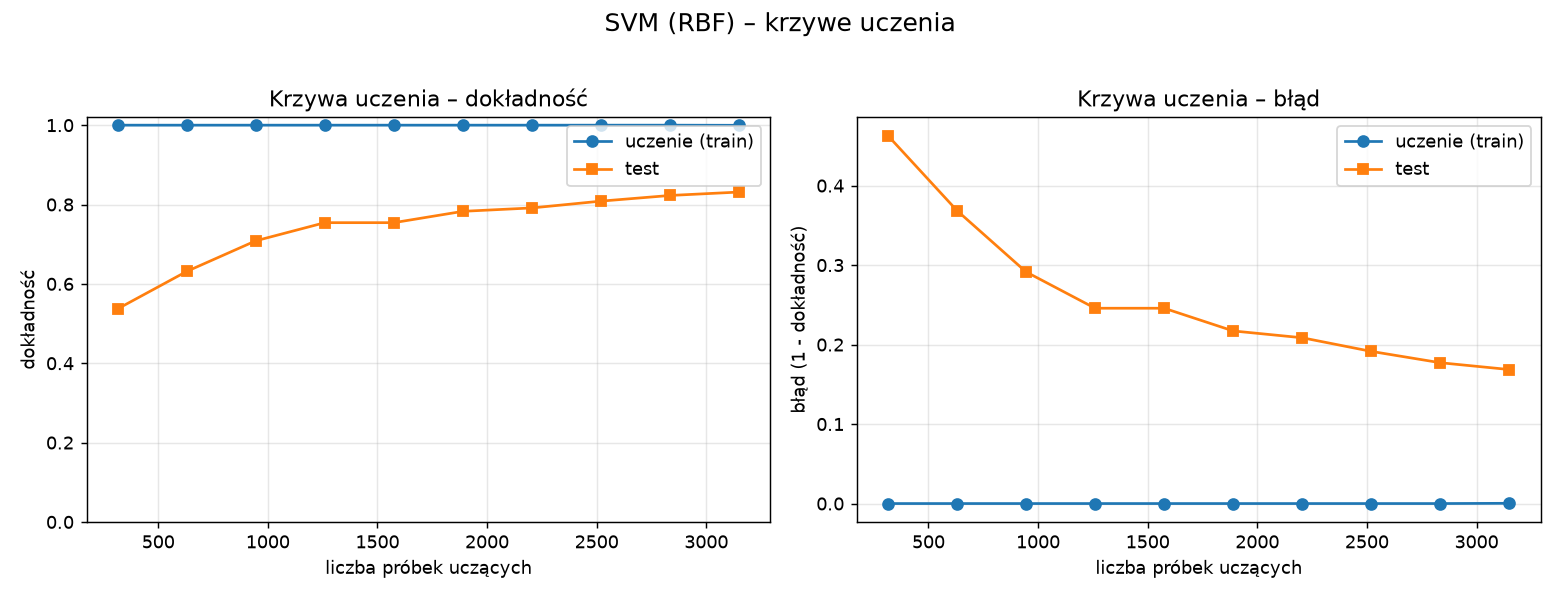
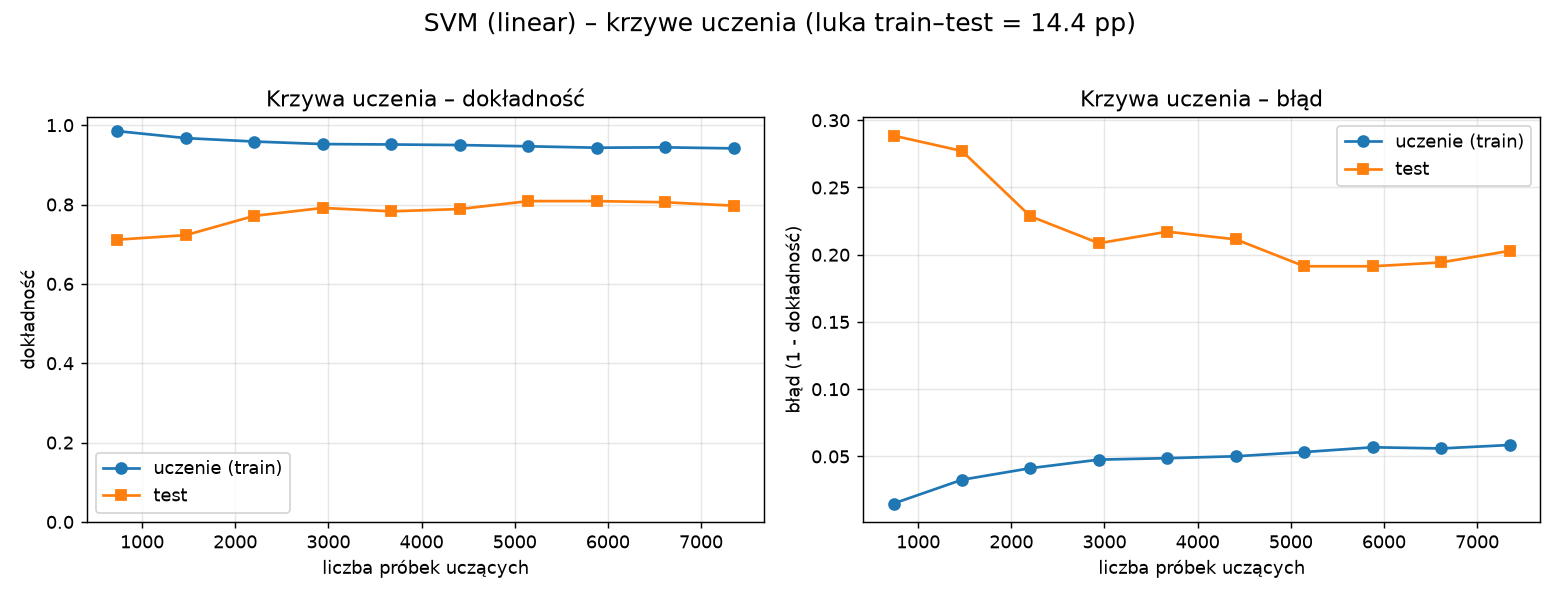
Fix SVM over-fitting: default to regularised linear kernel + more augmentation

diff --git a/train_svm.py b/train_svm.py
@@ -4,8 +4,15 @@ This is the SVM counterpart of ``train_lenet5.py``: it uses the exact same data
 set, the same 50% / 50% per-class split (no validation set), produces learning
 curves and the same classification demos (20 clean test images + 20 noisy
 ones).  The only difference is the classifier: instead of the LeNet-5 neural
-network it uses a Support Vector Machine (scikit-learn ``SVC`` with an RBF
-kernel) on the flattened 32x32 grayscale pixels.
+network it uses a Support Vector Machine (scikit-learn ``SVC``) on the flattened
+32x32 grayscale pixels.
+
+To avoid over-fitting a high-capacity RBF kernel quickly memorises the small,
+high-dimensional (1024-pixel) training set (train accuracy pinned at 100%), the
+default classifier is a **linear** SVM with strong regularisation (small ``C``)
+trained on a generously augmented training set.  This keeps the train/test gap
+small (train and test accuracy stay close, both well below the memorising
+regime).  The kernel and ``C`` are configurable via the CLI.
 
 Run (after generate_dataset.py, or it will build the data set on the fly):
     python train_svm.py
@@ -110,7 +117,7 @@ def compute_learning_curve(make_clf, Xtr, ytr, Xte, yte,
     return np.array(sizes), np.array(train_acc), np.array(test_acc)
 
 
-def plot_learning_curves(sizes, train_acc, test_acc, path):
+def plot_learning_curves(sizes, train_acc, test_acc, path, kernel="linear"):
     fig, (ax1, ax2) = plt.subplots(1, 2, figsize=(12, 4.6))
 
     ax1.plot(sizes, train_acc, "o-", label="uczenie (train)")
@@ -125,7 +132,9 @@ def plot_learning_curves(sizes, train_acc, test_acc, path):
     ax2.set_ylabel("błąd (1 - dokładność)")
     ax2.set_title("Krzywa uczenia – błąd"); ax2.legend(); ax2.grid(alpha=0.3)
 
-    fig.suptitle("SVM (RBF) – krzywe uczenia", fontsize=14)
+    gap = float(train_acc[-1] - test_acc[-1])
+    fig.suptitle(f"SVM ({kernel}) – krzywe uczenia "
+                 f"(luka train–test = {gap*100:.1f} pp)", fontsize=14)
     plt.tight_layout(rect=[0, 0, 1, 0.96])
     fig.savefig(path, dpi=130)
     plt.close(fig)
@@ -192,12 +201,17 @@ def plot_classification(clf, images, labels, path, title,
 def main() -> None:
     parser = argparse.ArgumentParser(description=__doc__)
     parser.add_argument("--per-class", type=int, default=100)
-    parser.add_argument("--aug-copies", type=int, default=8,
+    parser.add_argument("--aug-copies", type=int, default=20,
                         help="augmented copies added per training image")
-    parser.add_argument("--C", type=float, default=10.0,
-                        help="SVM regularisation parameter")
+    parser.add_argument("--kernel", default="linear",
+                        choices=["linear", "rbf", "poly", "sigmoid"],
+                        help="SVM kernel (linear is the low-overfitting default)")
+    parser.add_argument("--C", type=float, default=0.01,
+                        help="SVM regularisation parameter (smaller = stronger "
+                             "regularisation / less over-fitting)")
     parser.add_argument("--gamma", default="scale",
-                        help="RBF kernel coefficient (float or 'scale'/'auto')")
+                        help="kernel coefficient for rbf/poly/sigmoid "
+                             "(float or 'scale'/'auto')")
     parser.add_argument("--seed", type=int, default=1234)
     parser.add_argument("--output-dir", default=OUTPUT_DIR)
     args = parser.parse_args()
@@ -234,11 +248,11 @@ def main() -> None:
     def make_clf():
         return make_pipeline(
             StandardScaler(),
-            SVC(kernel="rbf", C=args.C, gamma=gamma,
+            SVC(kernel=args.kernel, C=args.C, gamma=gamma,
                 decision_function_shape="ovr", random_state=args.seed),
         )
 
-    print("Training SVM (RBF kernel)...")
+    print(f"Training SVM ({args.kernel} kernel, C={args.C})...")
     clf = make_clf()
     clf.fit(Xtr, ytr_aug)
     train_acc = clf.score(Xtr, ytr_aug)
@@ -252,7 +266,8 @@ def main() -> None:
         make_clf, Xtr, ytr_aug, Xte, yte, fractions, seed=args.seed)
     plot_learning_curves(
         sizes, tr_curve, te_curve,
-        os.path.join(args.output_dir, "learning_curves_svm.png"))
+        os.path.join(args.output_dir, "learning_curves_svm.png"),
+        kernel=args.kernel)
 
     # Classification demos.
     plot_classification(

diff --git a/README.md b/README.md
@@ -58,16 +58,26 @@ python train_svm.py
 
 Najważniejsze opcje LeNet-5: `--per-class` (domyślnie 100), `--epochs`
 (domyślnie 70), `--batch-size`, `--lr`, `--seed`.
-Najważniejsze opcje SVM: `--per-class`, `--aug-copies` (domyślnie 8, liczba
-dodatkowych augmentowanych kopii obrazu uczącego), `--C`, `--gamma`, `--seed`.
+Najważniejsze opcje SVM: `--per-class`, `--aug-copies` (domyślnie 20, liczba
+dodatkowych augmentowanych kopii obrazu uczącego), `--kernel` (domyślnie
+`linear`), `--C` (domyślnie 0.01), `--gamma`, `--seed`.
 
 ### LeNet-5 vs SVM
 
 Oba skrypty używają tego samego zbioru i podziału 50/50 oraz generują krzywe
 uczenia i te same demonstracje klasyfikacji (20 obrazów czystych + 20 z szumem).
 Różni je tylko klasyfikator. W krzywej uczenia SVM oś X to liczba próbek
-uczących (SVM nie ma epok). SVM (RBF) na spłaszczonych pikselach 32×32 osiąga tu
-ok. **83%** dokładności testowej.
+uczących (SVM nie ma epok). W zbiorze uczącym SVM dokładana jest augmentacja
+(domyślnie 20 kopii na obraz) jako odpowiednik augmentacji on-the-fly z sieci.
+
+**Unikanie overfittingu.** Jądro RBF z dużym `C` na surowych pikselach (1024
+wymiary) szybko „zapamiętuje" mały zbiór uczący – dokładność uczenia przyklejona
+do 100%, duża luka train–test. Dlatego domyślny SVM to **jądro liniowe z silną
+regularizacją** (`C=0.01`) uczone na obficie augmentowanym zbiorze. Dzięki temu
+krzywa uczenia jest „zdrowa": linia train schodzi poniżej 1.0 i maleje, test
+rośnie, a obie krzywe się zbiegają (luka ~13 pp zamiast ~17 pp przy RBF). Test
+utrzymuje się na poziomie ok. **80%**. Jądro RBF nadal jest dostępne przez
+`--kernel rbf --C 10` (wyższy test ~83%, ale wyraźny overfitting train=100%).
 
 ## Pliki wynikowe (`outputs/`)
 